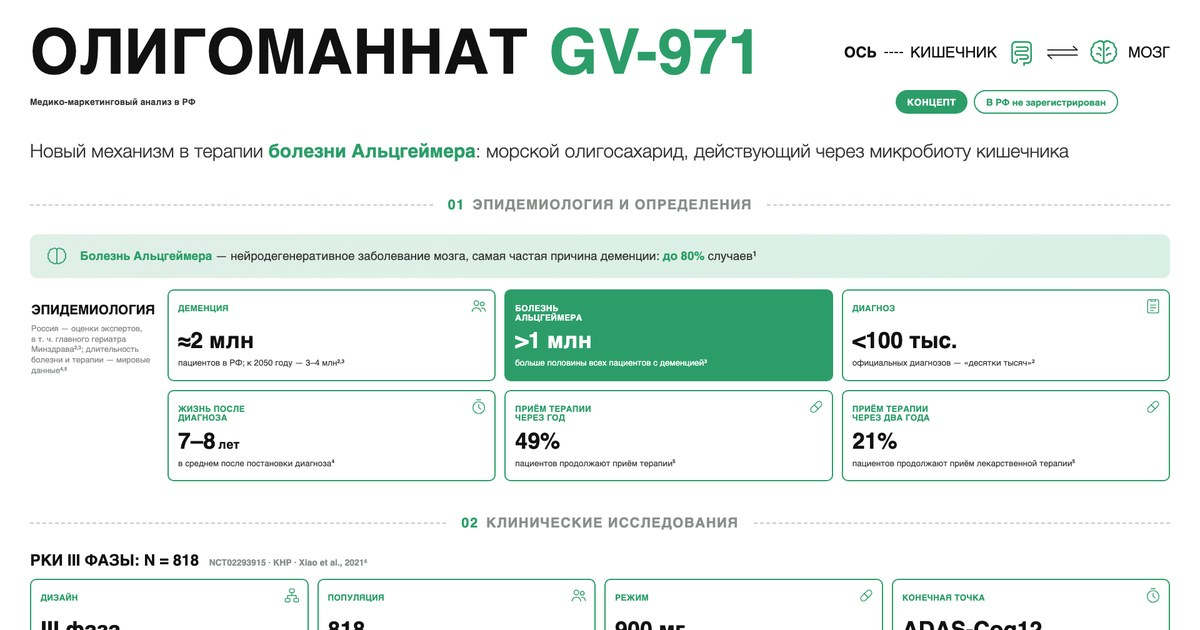
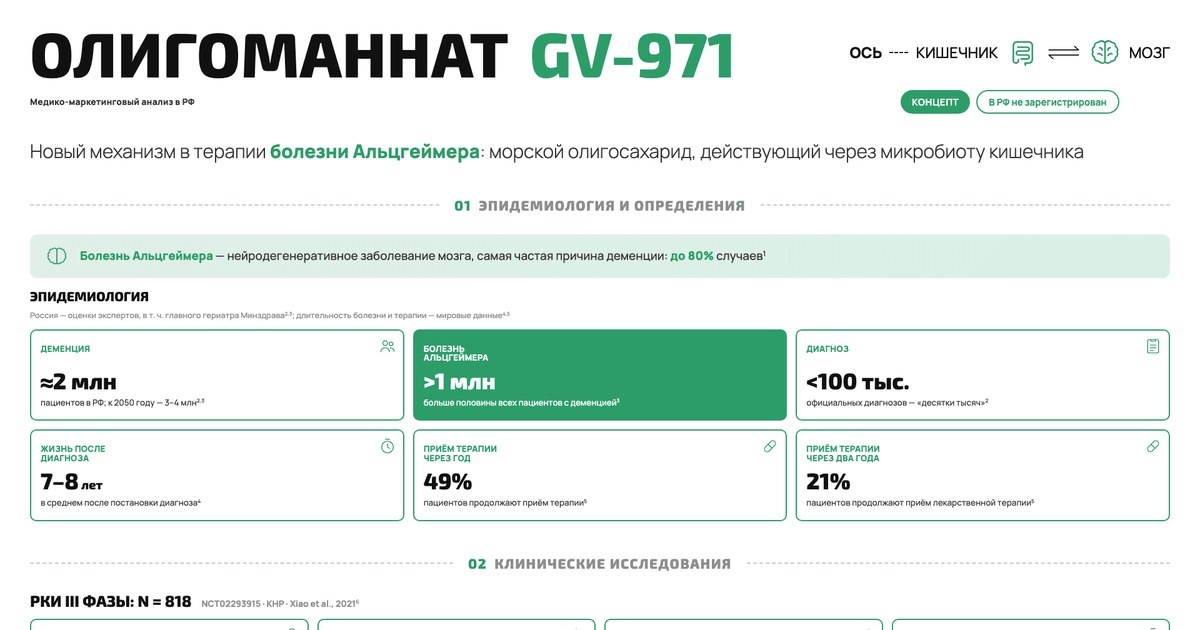
Дашборд олигоманната (GV-971): новая страница в портфолио

diff --git a/oligomannat/index.html b/oligomannat/index.html
@@ -67,8 +67,8 @@ sup{font-size:.62em;line-height:0;font-weight:600;vertical-align:baseline;positi
 .def svg{width:38px;height:38px;color:var(--acc);flex:none}
 .def p{font:500 19px/1.35 var(--f-text);color:var(--ink-2)}
 .def b{color:var(--acc);font-weight:800}
-.epi{margin-top:18px;display:grid;grid-template-columns:206px repeat(3,minmax(0,1fr));gap:14px}
-.el{padding:22px 0 0 2px;grid-row:span 2}
+.epi{margin-top:18px;display:grid;grid-template-columns:repeat(3,minmax(0,1fr));gap:14px}
+.el{grid-column:1 / -1;padding:0}
 .el .k{font:800 21px/1.08 var(--f-head);text-transform:uppercase;white-space:nowrap}
 .el .d{margin-top:10px;font:500 13px/1.3 var(--f-text);color:var(--muted)}
 .kpi{position:relative;padding:22px 15px 18px;min-width:0}
